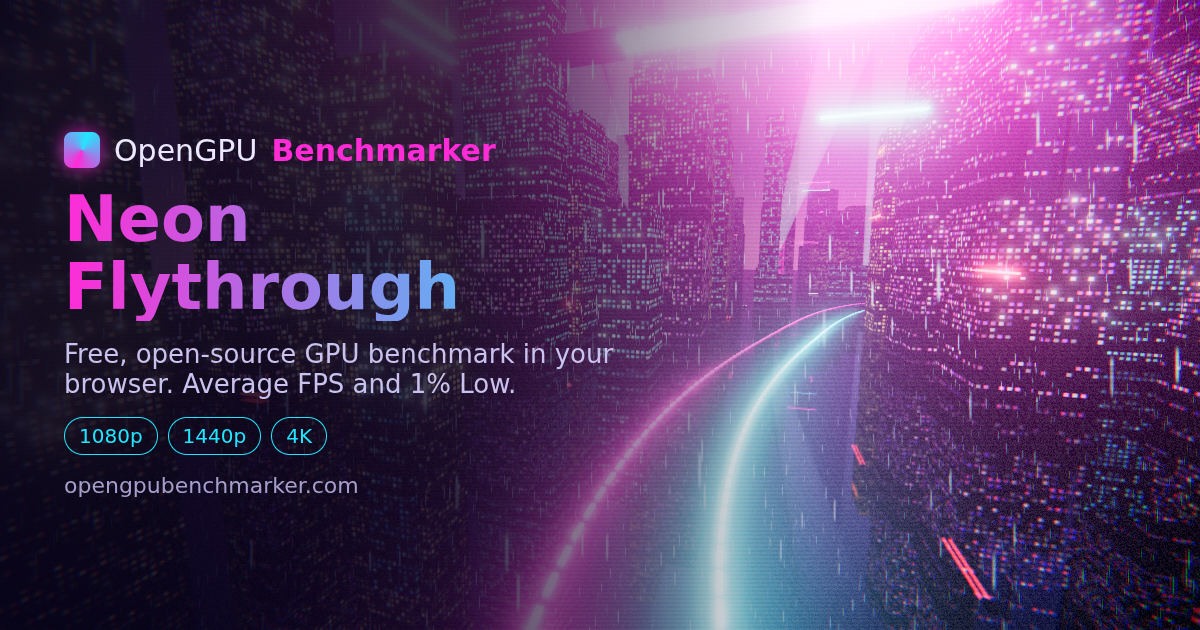
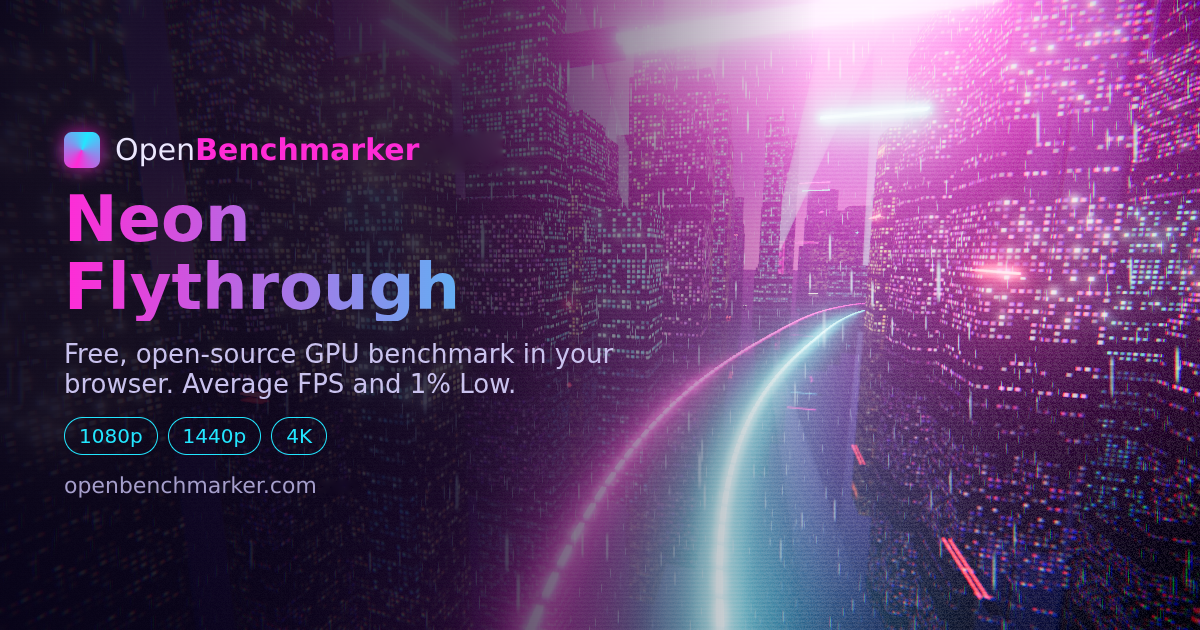
Rename site to OpenBenchmarker (openbenchmarker.com)
- Replace opengpubenchmarker.com with openbenchmarker.com in meta tags,
  JSON-LD, sitemap, robots.txt, package.json, README and exported results
- Rename the brand from "OpenGPU Benchmarker" to "OpenBenchmarker" in titles,
  header/footer, web manifest and export comments
- Rename the npm package and Cloudflare Worker to openbenchmarker
- Rename the benchmark ID to openbenchmarker_neon_flythrough and its name to
  "OpenBenchmarker Neon Flythrough"
- Redraw the name and domain on the Open Graph image

Changed region(s): [[0.0925, 0.2111, 0.4317, 0.2714], [0.0617, 0.754, 0.3083, 0.7841]]

diff --git a/index.html b/index.html
@@ -3,10 +3,10 @@
   <head>
     <meta charset="UTF-8" />
     <meta name="viewport" content="width=device-width, initial-scale=1, viewport-fit=cover" />
-    <title>OpenGPU Benchmarker: Free Browser GPU Benchmark</title>
+    <title>OpenBenchmarker: Free Browser GPU Benchmark</title>
     <meta name="description" content="Free, open-source GPU benchmark that runs in your browser. Run the Neon Flythrough at 1080p, 1440p or 4K, get Average FPS and 1% Low FPS, and submit results to Open GPU Benchmarks." />
     <meta name="robots" content="index, follow" />
-    <link rel="canonical" href="https://opengpubenchmarker.com/" />
+    <link rel="canonical" href="https://openbenchmarker.com/" />
     <meta name="theme-color" content="#0b0820" />
     <meta name="color-scheme" content="dark" />
     <meta name="author" content="MattyStacks" />
@@ -18,31 +18,31 @@
     <link rel="license" href="https://github.com/MattyStacks/openbenchmarker/blob/main/LICENSE" />
 
     <meta property="og:type" content="website" />
-    <meta property="og:site_name" content="OpenGPU Benchmarker" />
-    <meta property="og:title" content="OpenGPU Benchmarker: Free Browser GPU Benchmark" />
+    <meta property="og:site_name" content="OpenBenchmarker" />
+    <meta property="og:title" content="OpenBenchmarker: Free Browser GPU Benchmark" />
     <meta property="og:description" content="Fly through a neon 1980s city at 1080p, 1440p or 4K. Uncapped, timed to GPU completion, with Average FPS and 1% Low results you can submit to Open GPU Benchmarks." />
-    <meta property="og:url" content="https://opengpubenchmarker.com/" />
-    <meta property="og:image" content="https://opengpubenchmarker.com/og-image.png" />
+    <meta property="og:url" content="https://openbenchmarker.com/" />
+    <meta property="og:image" content="https://openbenchmarker.com/og-image.png" />
     <meta property="og:image:width" content="1200" />
     <meta property="og:image:height" content="630" />
     <meta property="og:image:alt" content="The Neon Flythrough benchmark: a rainy neon city at night with glowing light trails" />
     <meta property="og:locale" content="en_US" />
     <meta name="twitter:card" content="summary_large_image" />
-    <meta name="twitter:title" content="OpenGPU Benchmarker: Free Browser GPU Benchmark" />
+    <meta name="twitter:title" content="OpenBenchmarker: Free Browser GPU Benchmark" />
     <meta name="twitter:description" content="Free, open-source GPU benchmark in your browser. Average FPS and 1% Low at 1080p, 1440p or 4K." />
-    <meta name="twitter:image" content="https://opengpubenchmarker.com/og-image.png" />
+    <meta name="twitter:image" content="https://openbenchmarker.com/og-image.png" />
 
     <script type="application/ld+json">
       {
         "@context": "https://schema.org",
         "@type": "WebApplication",
-        "name": "OpenGPU Benchmarker",
-        "url": "https://opengpubenchmarker.com/",
+        "name": "OpenBenchmarker",
+        "url": "https://openbenchmarker.com/",
         "description": "Free, open-source GPU benchmark that runs in the browser on WebGL2. Runs the Neon Flythrough and reports Average FPS and 1% Low FPS.",
         "applicationCategory": "UtilitiesApplication",
         "operatingSystem": "Windows, Linux",
         "browserRequirements": "Requires WebGL2",
-        "image": "https://opengpubenchmarker.com/og-image.png",
+        "image": "https://openbenchmarker.com/og-image.png",
         "isAccessibleForFree": true,
         "offers": { "@type": "Offer", "price": "0", "priceCurrency": "USD" },
         "license": "https://opensource.org/license/mit",
@@ -53,7 +53,7 @@
   </head>
   <body>
     <header class="banner" id="banner">
-      <a class="brand" href="#/"><span class="brand-mark" aria-hidden="true"></span>OpenGPU <b>Benchmarker</b></a>
+      <a class="brand" href="#/"><span class="brand-mark" aria-hidden="true"></span>Open<b>Benchmarker</b></a>
       <nav class="nav">
         <a href="#/" data-nav="home">Benchmark</a>
         <a href="#/history" data-nav="history">My Results</a>
@@ -64,7 +64,7 @@
     <main id="app">
       <!-- Home: the single benchmark + its run configuration, visible immediately -->
       <noscript>
-        <p class="noscript">OpenGPU Benchmarker needs JavaScript and WebGL2 to run the benchmark. Turn on JavaScript and reload the page.</p>
+        <p class="noscript">OpenBenchmarker needs JavaScript and WebGL2 to run the benchmark. Turn on JavaScript and reload the page.</p>
       </noscript>
       <section class="view" id="view-home">
         <article class="bench-card">
@@ -141,7 +141,7 @@
     <footer class="site-footer" id="footer">
       <div class="footer-inner">
         <div class="footer-col footer-about">
-          <a class="brand" href="#/"><span class="brand-mark" aria-hidden="true"></span>OpenGPU <b>Benchmarker</b></a>
+          <a class="brand" href="#/"><span class="brand-mark" aria-hidden="true"></span>Open<b>Benchmarker</b></a>
           <p>A free, open-source GPU benchmark that runs in your browser. Results stay in this browser unless you export or submit them. No accounts, no cookies, no tracking scripts.</p>
         </div>
         <nav class="footer-col" aria-label="Site">

diff --git a/src/benchmark/exporter.ts b/src/benchmark/exporter.ts
@@ -23,7 +23,7 @@ export function toYaml(r: BenchResult): string {
   if (errors.length) throw new Error(`Not submittable: ${errors.join("; ")}`);
   const s = r.system;
   const lines = [
-    `# Captured by OpenGPU Benchmarker ${r.benchmarkVersion} (https://opengpubenchmarker.com/), benchmark "${BENCHMARK.name}".`,
+    `# Captured by OpenBenchmarker ${r.benchmarkVersion} (https://openbenchmarker.com/), benchmark "${BENCHMARK.name}".`,
     `# Every frame was timed in the browser (submission to GPU completion). Hardware fields were entered by the submitter.`,
     `# Save as data/community/${s.gpuId}/${suggestedFileName(r, "yaml")} in a PR to ${UPSTREAM_REPO}`,
     `# Submitted data is public under CC BY 4.0 (data/LICENSE) and cannot be taken back.`,
@@ -50,7 +50,7 @@ export function toYaml(r: BenchResult): string {
     if (key === "cpu" && s.memoryGb.trim()) lines.push(`  memory_gb: ${Number(s.memoryGb.trim())}`);
   }
   lines.push(`  graphics_api: ${r.graphicsApi} # recorded from the WebGL context the run used`);
-  lines.push(`proof:`, `  method: ${PROOF_METHOD} # captured by OpenGPU Benchmarker (in-browser per-frame timing)`);
+  lines.push(`proof:`, `  method: ${PROOF_METHOD} # captured by OpenBenchmarker (in-browser per-frame timing)`);
   return lines.join("\n") + "\n";
 }
 
@@ -61,7 +61,7 @@ export function gamesYamlEntry(year: number): string {
     `    name: ${BENCHMARK.name}`,
     `    type: synthetic`,
     `    year: ${year}`,
-    `    url: https://opengpubenchmarker.com/`,
+    `    url: https://openbenchmarker.com/`,
     `    notes: Browser WebGL2 benchmark; fixed-path neon city flythrough with per-frame timing.`,
   ].join("\n");
 }

diff --git a/src/main.ts b/src/main.ts
@@ -73,10 +73,10 @@ type View = "home" | "run" | "results" | "history";
 let running = false;
 
 const TITLES: Record<View, string> = {
-  home: "OpenGPU Benchmarker: Free Browser GPU Benchmark",
-  run: "Running Neon Flythrough · OpenGPU Benchmarker",
-  results: "Result · OpenGPU Benchmarker",
-  history: "My Results · OpenGPU Benchmarker",
+  home: "OpenBenchmarker: Free Browser GPU Benchmark",
+  run: "Running Neon Flythrough · OpenBenchmarker",
+  results: "Result · OpenBenchmarker",
+  history: "My Results · OpenBenchmarker",
 };
 
 function showView(v: View): void {
@@ -640,7 +640,7 @@ function renderHistory(): void {
             .join("")}</tbody></table></div>`
         : `<p>No runs yet. <a href="#/">Run the benchmark</a>.</p>`
     }`;
-  view.querySelector("#hist-csv")?.addEventListener("click", () => download("opengpu_results.csv", toCsv(history), "text/csv"));
+  view.querySelector("#hist-csv")?.addEventListener("click", () => download("openbenchmarker_results.csv", toCsv(history), "text/csv"));
   view.querySelectorAll<HTMLButtonElement>("[data-del]").forEach((b) =>
     b.addEventListener("click", () => {
       if (!confirm("Delete this result from this browser?")) return;

diff --git a/tests/validate.test.ts b/tests/validate.test.ts
@@ -94,7 +94,7 @@ describe("exports", () => {
   it("YAML has measured fields, no invented hardware, blank optionals omitted, graphics_api emitted", () => {
     const y = toYaml(withSys({ gpuId: GPU, os: "windows" }));
     expect(y).toMatch(/^gpu_id: rtx_5080_16gb_fe$/m);
-    expect(y).toMatch(/^game_id: opengpu_neon_flythrough$/m);
+    expect(y).toMatch(/^game_id: openbenchmarker_neon_flythrough$/m);
     expect(y).toMatch(/^date: "2026-10-19"$/m);
     expect(y).toMatch(/^ {2}- resolution: "1080p"$/m);
     expect(y).toMatch(/^ {4}graphics_preset: "Ultra"$/m);
@@ -120,7 +120,7 @@ describe("exports", () => {
   });
 
   it("file name follows result_YYYYMMDD_<game_id>.yaml", () => {
-    expect(suggestedFileName(result(), "yaml")).toBe("result_20261019_opengpu_neon_flythrough.yaml");
+    expect(suggestedFileName(result(), "yaml")).toBe("result_20261019_openbenchmarker_neon_flythrough.yaml");
   });
 
   it("JSON and CSV are always available and say when incomplete", () => {

diff --git a/src/benchmark/catalog.ts b/src/benchmark/catalog.ts
@@ -21,7 +21,7 @@ export const UPSTREAM_REPO = "https://github.com/MattyStacks/open-gpu-benchmarks
 export const UPSTREAM_ISSUES = `${UPSTREAM_REPO}/issues/new/choose`;
 export const UPSTREAM_TEMPLATES = `${UPSTREAM_REPO}/tree/main/templates`;
 
-export const BENCHMARKS = [{ gameId: "opengpu_neon_flythrough", name: "OpenGPU Neon Flythrough" }] as const;
+export const BENCHMARKS = [{ gameId: "openbenchmarker_neon_flythrough", name: "OpenBenchmarker Neon Flythrough" }] as const;
 export const BENCHMARK = BENCHMARKS[0];
 export const BENCHMARK_VERSION = "1.0.0";
 

diff --git a/tests/scene.test.ts b/tests/scene.test.ts
@@ -34,7 +34,7 @@ describe("flight corridor", () => {
 
   it("there is exactly one benchmark", () => {
     expect(BENCHMARKS).toHaveLength(1);
-    expect(BENCHMARKS[0].gameId).toBe("opengpu_neon_flythrough");
+    expect(BENCHMARKS[0].gameId).toBe("openbenchmarker_neon_flythrough");
   });
 });
 

diff --git a/README.md b/README.md
@@ -1,9 +1,9 @@
-# OpenGPU Benchmarker
+# OpenBenchmarker
 
 [![License: MIT](https://img.shields.io/badge/License-MIT-ff2bd6.svg)](LICENSE)
 
 An open-source GPU benchmark that runs in the browser with nothing to install
-(opengpubenchmarker.com). It runs one benchmark, **Neon Flythrough**: a fixed-path
+(openbenchmarker.com). It runs one benchmark, **Neon Flythrough**: a fixed-path
 flight through a rainy, neon-lit 1980s-movie city. It reports **Average FPS** and
 **1% Low FPS**. You can keep results in your browser or submit them to
 [Open GPU Benchmarks](https://opengpubenchmarks.com/).
@@ -25,7 +25,7 @@ npm run deploy     # build + wrangler deploy
 
 To deploy, run `npx wrangler login` once, then `npm run deploy`. `wrangler.toml`
 serves `./dist` with an SPA fallback. Attach the custom domain
-`opengpubenchmarker.com` in the Cloudflare dashboard (Workers → opengpu-benchmarker →
+`openbenchmarker.com` in the Cloudflare dashboard (Workers → openbenchmarker →
 Settings → Domains).
 
 ## How a run works
@@ -99,16 +99,16 @@ This tool feeds a public dataset, so:
 
 ### Submitting
 
-The results page builds `result_YYYYMMDD_opengpu_neon_flythrough.yaml` for
+The results page builds `result_YYYYMMDD_openbenchmarker_neon_flythrough.yaml` for
 `data/community/<gpu_id>/`, and it can open GitHub's new-file form already filled in.
 The first PR that uses this benchmark must also add it to upstream `data/games.yaml`:
 
 ```yaml
-  - id: opengpu_neon_flythrough
-    name: OpenGPU Neon Flythrough
+  - id: openbenchmarker_neon_flythrough
+    name: OpenBenchmarker Neon Flythrough
     type: synthetic
     year: 2026
-    url: https://opengpubenchmarker.com/
+    url: https://openbenchmarker.com/
 ```
 
 Submitted data is public under **CC BY 4.0** and can't be taken back.
@@ -129,7 +129,7 @@ The script refuses to overwrite the snapshot with an empty list.
 
 Everything Google Search and link previews need ships from `index.html` and `public/`:
 
-- `<title>`, meta description, `robots`, and a canonical link to `https://opengpubenchmarker.com/`.
+- `<title>`, meta description, `robots`, and a canonical link to `https://openbenchmarker.com/`.
   The app uses hash routes (`#/history`, `#/result/…`), which search engines treat as the
   same page, so there is one indexable URL.
 - Open Graph and Twitter card tags, with `public/og-image.png` (1200×630, a real frame of the
@@ -145,7 +145,7 @@ After the first deploy:
 
 1. Add the domain in [Google Search Console](https://search.google.com/search-console). The
    **Domain** property type verifies through a DNS TXT record; add it under Cloudflare → DNS.
-2. Submit `https://opengpubenchmarker.com/sitemap.xml` under **Sitemaps**.
+2. Submit `https://openbenchmarker.com/sitemap.xml` under **Sitemaps**.
 3. Use **URL Inspection** on the home page and request indexing.
 4. Optional: check the structured data with the
    [Rich Results Test](https://search.google.com/test/rich-results).
